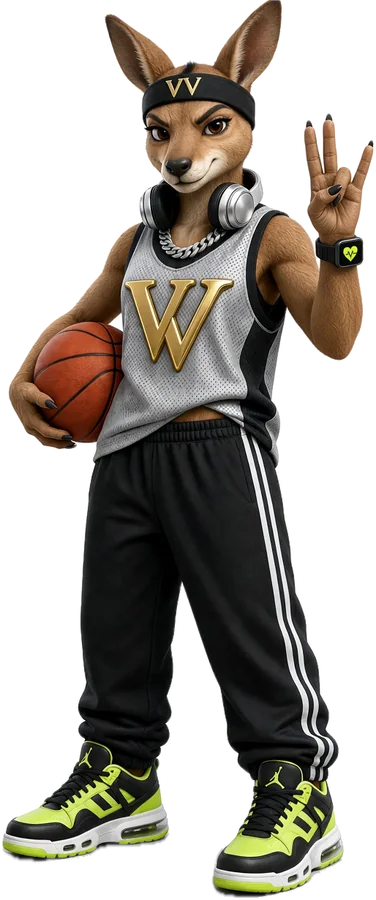
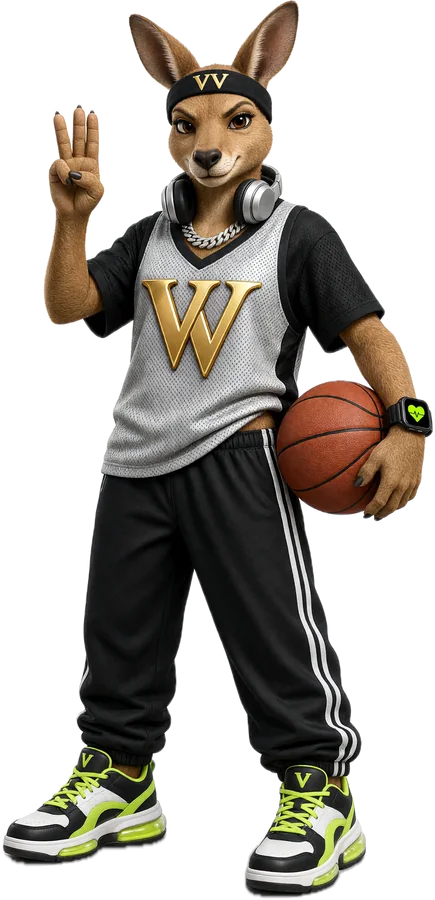
Copy: factual claims (AI coach checks in by voice in the app, opt-in, 2 a week max; prizes only where the law allows; Founders = first 100 confirmed); kangaroo baller's sign fixed

diff --git a/src/i18n/dictionaries/fr.ts b/src/i18n/dictionaries/fr.ts
@@ -36,7 +36,7 @@ export const fr: Dictionary = {
     anthem: ["pour ta santé.", "pour ta richesse.", "pour toi.", "pour ton squad.", "pour ta ville.", "pour ton équipe."],
     love: "Course, yoga, padel, danse, muscu, une grande balade : tu sais déjà ce que tu aimes faire.",
     loveKicker: "Il est temps de VVake up et de le faire plus souvent.",
-    lead: "Ton coach t'appelle et planifie ta semaine. Chaque séance compte pour des avantages, des lots et le classement de ta ville.",
+    lead: "Un coach IA qui prend de tes nouvelles à la voix dans l'app, et un plan qui colle à ta semaine. Chaque séance compte pour des avantages et le classement de ta ville.",
     trainingChip: "Plan synchronisé avec ton agenda",
     wealthChip: "{money} investi par séance",
     wealthNote: "Sweat & Invest · avec Robinhood (prévu) · ton argent · selon le pays",
@@ -50,8 +50,8 @@ export const fr: Dictionary = {
       {
         target: "coach",
         icon: "🎧",
-        title: "Un coach qui t'appelle",
-        body: "Il prend de tes nouvelles à la voix, se souvient de ce que tu ressens et ajuste ta semaine.",
+        title: "Un coach IA qui prend de tes nouvelles",
+        body: "Des appels vocaux dans l'app, sur demande, 2 par semaine au plus. Il se souvient de ce que tu ressens et ajuste ta semaine.",
         cta: "L'écouter",
       },
       {
@@ -65,7 +65,7 @@ export const fr: Dictionary = {
         target: "earn",
         icon: "🏆",
         title: "Des récompenses pour être là",
-        body: "Avantages, lots, récompenses de saison et une place de Fondateur dans ta ville. Noté sur ton cœur, pas sur ta vitesse.",
+        body: "Avantages dans le jeu, récompenses de saison et, là où la loi le permet, des lots. Les 100 premiers confirmés de ta ville deviennent Fondateurs. Noté sur ton cœur, pas sur ta vitesse.",
         cta: "Voir les récompenses",
       },
     ],
@@ -749,7 +749,7 @@ export const fr: Dictionary = {
   coach: {
     kicker: "Ton VVaker, ton coach",
     title: "Il appelle. Tu parles. Tu bouges mieux.",
-    body: "Ton VVaker prend de tes nouvelles à la voix : comment se passe la semaine, ce qui t'a fait du bien, ce qu'on change. Choisis son style de voix et son ambiance, et il devient le coach que tu écoutes vraiment.",
+    body: "Ton VVaker prend de tes nouvelles à la voix, dans l'app et seulement si tu le veux : comment se passe la semaine, ce qui t'a fait du bien, ce qu'on change. Choisis son style de voix et son ambiance, et il devient le coach que tu écoutes vraiment.",
     call: { incoming: "Appel entrant", who: "Ton VVaker · mode coach", accept: "Répondre", decline: "Plus tard" },
     voiceLabel: "Voix",
     voices: { female: "Voix féminine", male: "Voix masculine" },

diff --git a/src/i18n/dictionaries/en.ts b/src/i18n/dictionaries/en.ts
@@ -38,7 +38,7 @@ export const en = {
     anthem: ["for your health.", "for your wealth.", "for yourself.", "for your squad.", "for your city.", "for your team."],
     love: "Running, yoga, padel, dancing, lifting, a long walk: you already know what you love to do.",
     loveKicker: "It's just time to VVake up and do it more often.",
-    lead: "Your coach calls you and plans your week. Every workout counts toward perks, prizes and your city's rank.",
+    lead: "An AI coach that checks in by voice in the app, and a plan that fits your week. Every workout counts toward perks and your city's rank.",
     trainingChip: "Plan synced with your calendar",
     wealthChip: "{money} invested per workout",
     wealthNote: "Sweat & Invest · with Robinhood (planned) · your money · where available",
@@ -52,8 +52,8 @@ export const en = {
       {
         target: "coach",
         icon: "🎧",
-        title: "A coach that calls you",
-        body: "It checks in by voice, remembers how you feel and adjusts your week.",
+        title: "An AI coach that checks in",
+        body: "Opt-in voice check-ins in the app, 2 a week at most. It remembers how you feel and adjusts your week.",
         cta: "Hear it",
       },
       {
@@ -67,7 +67,7 @@ export const en = {
         target: "earn",
         icon: "🏆",
         title: "Rewards for showing up",
-        body: "Perks, prizes, season rewards and a Founder spot in your city. Scored on your heart, not your speed.",
+        body: "In-game perks, season rewards and, where the law allows, prizes. The first 100 confirmed in your city become Founders. Scored on your heart, not your speed.",
         cta: "See the rewards",
       },
     ],
@@ -714,7 +714,7 @@ export const en = {
   coach: {
     kicker: "Your VVaker, your coach",
     title: "It calls. You talk. You move better.",
-    body: "Your VVaker checks in by voice: how's the week going, what felt good, what to change. Pick its voice style and vibe, and it becomes the trainer you actually listen to.",
+    body: "Your VVaker checks in by voice, in the app and only if you opt in: how's the week going, what felt good, what to change. Pick its voice style and vibe, and it becomes the trainer you actually listen to.",
     call: { incoming: "Incoming call", who: "Your VVaker · coach mode", accept: "Answer", decline: "Later" },
     voiceLabel: "Voice",
     voices: { female: "Female voice", male: "Male voice" },

diff --git a/src/lib/personas.ts b/src/lib/personas.ts
@@ -38,7 +38,7 @@ export const FEMALE_PERSONAS = {
   "footballer-f": { sport: "footballer", animal: "lioness", w: 389, h: 900 },
   "lifter-f": { sport: "lifter", animal: "wolf", w: 500, h: 900 },
   "skater-f": { sport: "skater", animal: "arctic fox", w: 622, h: 900 },
-  "baller-f": { sport: "baller", animal: "kangaroo", w: 376, h: 900 },
+  "baller-f": { sport: "baller", animal: "kangaroo", w: 435, h: 900 },
   "hiker-f": { sport: "hiker", animal: "grizzly bear", w: 482, h: 900 },
   "walker-f": { sport: "walker", animal: "golden retriever", w: 376, h: 900 },
 } as const satisfies Record<string, { sport: VVakerSport; animal: string; w: number; h: number }>;
